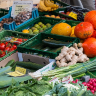
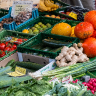
adjusted content adaptive downscale

diff --git a/src/scalerack/algorithms/content_adaptive_downscale.py b/src/scalerack/algorithms/content_adaptive_downscale.py
@@ -187,13 +187,24 @@ def content_adaptive_downscale(
     spatial_constraints: bool = True,
     variance_constraints: bool = True,
     max_iter: int = 30,
-    color_sigma: float = 0.04,
+    color_sigma: float = 1e-4,
     tol: float = 5e-4,
     strict_pseudocode_init: bool = False,
     locality_threshold: float | None = None,
     edge_strength_threshold: float | None = None,
+    variance_bounds: tuple[float, float] = (0.05, 0.10),
 ) -> ImageInput:
-    """Downscale with detail-preserving content-adaptive kernels (Kopf et al. 2013)."""
+    """Downscale with detail-preserving content-adaptive kernels (Kopf et al. 2013).
+
+    Each output pixel is a bilateral Gaussian kernel in joint space/color, fit by
+    EM. Kernels start color-crisp; the locality and staircase constraints
+    selectively smooth misbehaving kernels by raising their color variance.
+    For the paper's pixel-art mode pass ``staircase_constraint=False``.
+
+    Sharpness accumulates with iterations; the ``max_iter`` default is calibrated
+    to reproduce the sharpness of the paper's published results (running to full
+    convergence over-sharpens). Pixel art converges early on its own.
+    """
     image_input = as_image_input(image)
     rgba = image_input.rgba().astype(np.float64)
     rgb = np.clip(rgba[:, :, :3], 0.0, 1.0)
@@ -218,10 +229,14 @@ def content_adaptive_downscale(
     ry = hi / ho
 
     if locality_threshold is None:
-        locality_threshold = 0.2 * rx
+        # Paper: 0.2*rx on an unnormalized sum; our score is mass-normalized,
+        # constant recalibrated against the paper's reference outputs.
+        locality_threshold = 0.25 * rx
 
     if edge_strength_threshold is None:
-        edge_strength_threshold = 0.08 * rx * ry
+        # Paper text says 0.08*rx*ry, but that gate never releases; the
+        # pseudocode's plain 0.08 self-limits.
+        edge_strength_threshold = 0.08
 
     lab = _rgb_to_lab01(rgb)
     colors = lab.reshape(-1, 3)
@@ -287,6 +302,22 @@ def content_adaptive_downscale(
     nbr4 = [_neighbors4(k, wo, ho) for k in range(k_count)]
     nbr8 = [_neighbors8(k, wo, ho) for k in range(k_count)]
 
+    # Supports are static, so per-pair overlaps are precomputed once.
+    overlap: dict[tuple[int, int], tuple[np.ndarray, np.ndarray]] = {}
+
+    if staircase_constraint:
+        for k in range(k_count):
+            for n in nbr8[k]:
+                if k < n:
+                    _, ia, ib = np.intersect1d(
+                        supports[k],
+                        supports[n],
+                        return_indices=True,
+                        assume_unique=True,
+                    )
+                    overlap[(k, n)] = (ia.astype(np.int32), ib.astype(np.int32))
+                    overlap[(n, k)] = (overlap[(k, n)][1], overlap[(k, n)][0])
+
     for _ in range(max_iter):
         weights: list[np.ndarray] = []
 
@@ -317,10 +348,7 @@ def content_adaptive_downscale(
 
         gamma = [w / np.maximum(denom[s], eps) for s, w in zip(supports, weights, strict=True)]
 
-        old_mu = mu.copy()
-        old_cov = cov.copy()
         old_nu = nu.copy()
-        old_sigma = sigma.copy()
 
         # M-step.
         for k in range(k_count):
@@ -362,19 +390,24 @@ def content_adaptive_downscale(
 
         # C-step 2: spatial covariance/eigenvalue clamp.
         if variance_constraints:
+            # Clamped in output-pixel units; the paper's literal input-unit
+            # clamp would collapse every kernel to a sub-pixel point.
+            d_axes = np.array([rx, ry], dtype=np.float64)
+            scale = np.outer(d_axes, d_axes)
+
             for k in range(k_count):
-                vals, vecs = np.linalg.eigh(0.5 * (cov[k] + cov[k].T))
+                cov_norm = 0.5 * (cov[k] + cov[k].T) / scale
+                vals, vecs = np.linalg.eigh(cov_norm)
+                vals = np.clip(vals, variance_bounds[0], variance_bounds[1])
+                cov_norm = (vecs * vals) @ vecs.T
 
-                # Literal pseudocode values. They are in the paper's normalized
-                # working coordinate scale, but retained here for paper fidelity.
-                vals = np.clip(vals, 0.05, 0.10)
-
-                cov[k] = (vecs * vals) @ vecs.T + np.eye(2) * 1e-8
+                cov[k] = cov_norm * scale + np.eye(2) * 1e-8
                 cov[k] = 0.5 * (cov[k] + cov[k].T)
 
-        # C-step 3: locality and staircase constraints.
-        # Both constraints increase sigma, making color kernels less restrictive
-        # on the next E-step.
+        # C-step 3: locality and staircase constraints; both smooth violating
+        # kernels by raising sigma, and taper off once kernels comply.
+        constraints_triggered = False
+
         if locality_constraint or staircase_constraint:
             sigma_update = np.ones(k_count, dtype=np.float64)
 
@@ -394,28 +427,29 @@ def content_adaptive_downscale(
                 )
 
                 gk = gamma[k]
-                idx_k = supports[k]
 
                 for n in nbr8[k]:
                     direction = centers_out[n] - centers_out[k]
                     trigger = False
 
                     if locality_constraint:
+                        # Directional variance toward the neighbor, normalized
+                        # by kernel mass (paper's sum is unnormalized and would
+                        # fire on every kernel).
                         proj = (pk_out - mu_out[k]) @ direction
-                        locality_score = float(np.sum(gk * np.maximum(0.0, proj) ** 2))
+                        gk_sum = float(gk.sum())
+                        locality_score = (
+                            float(np.sum(gk * np.maximum(0.0, proj) ** 2)) / gk_sum
+                            if gk_sum > eps
+                            else 0.0
+                        )
 
                         if locality_score > locality_threshold:
                             trigger = True
 
                     if staircase_constraint and not trigger:
-                        common, ia, ib = np.intersect1d(
-                            idx_k,
-                            supports[n],
-                            return_indices=True,
-                            assume_unique=True,
-                        )
-
-                        f = float(np.dot(gamma[k][ia], gamma[n][ib])) if common.size else 0.0
+                        ia, ib = overlap[(k, n)]
+                        f = float(np.dot(gamma[k][ia], gamma[n][ib])) if ia.size else 0.0
 
                         if f < edge_strength_threshold:
                             o = _edge_orientation_vector(
@@ -438,15 +472,11 @@ def content_adaptive_downscale(
                         sigma_update[n] = max(sigma_update[n], 1.1)
 
             sigma *= sigma_update
+            constraints_triggered = bool(np.any(sigma_update > 1.0))
 
-        delta = max(
-            float(np.max(np.abs(mu - old_mu))),
-            float(np.max(np.abs(cov - old_cov))),
-            float(np.max(np.abs(nu - old_nu))),
-            float(np.max(np.abs(sigma - old_sigma))),
-        )
+        nu_delta = float(np.max(np.abs(nu - old_nu)))
 
-        if delta < tol:
+        if nu_delta < tol and not constraints_triggered:
             break
 
     out_rgb = _lab01_to_rgb(nu.reshape(ho, wo, 3))